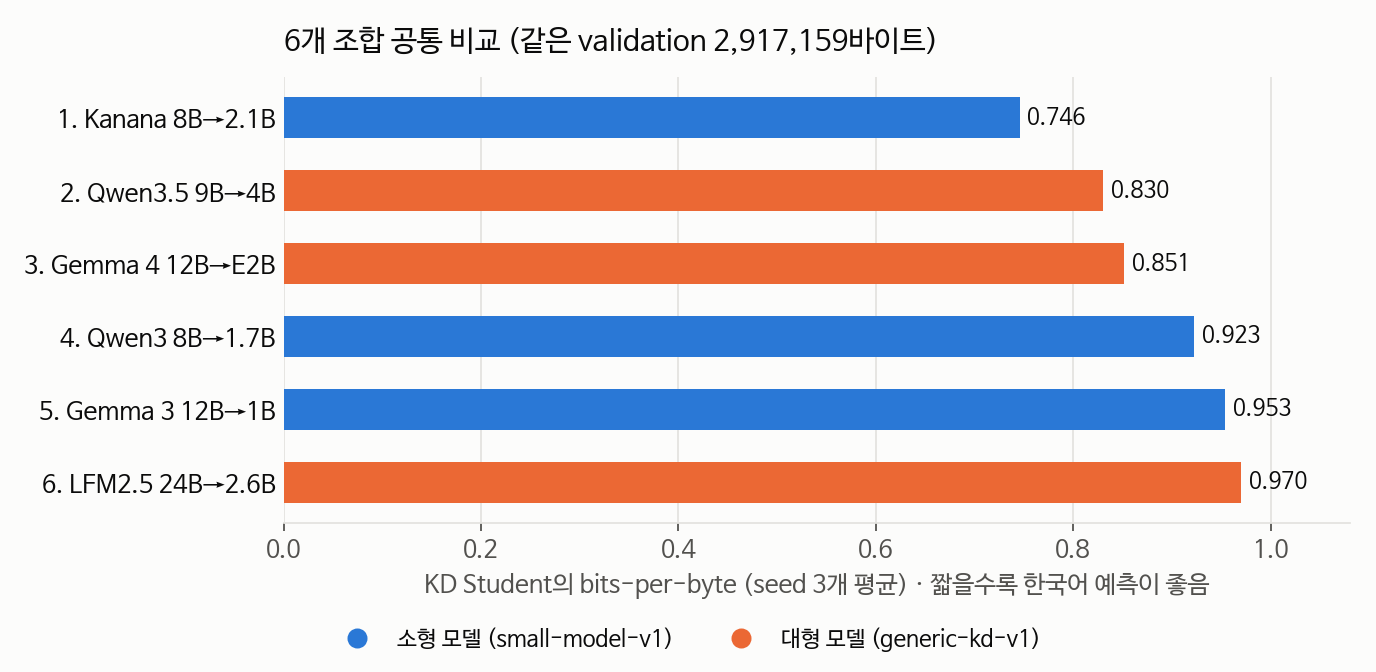
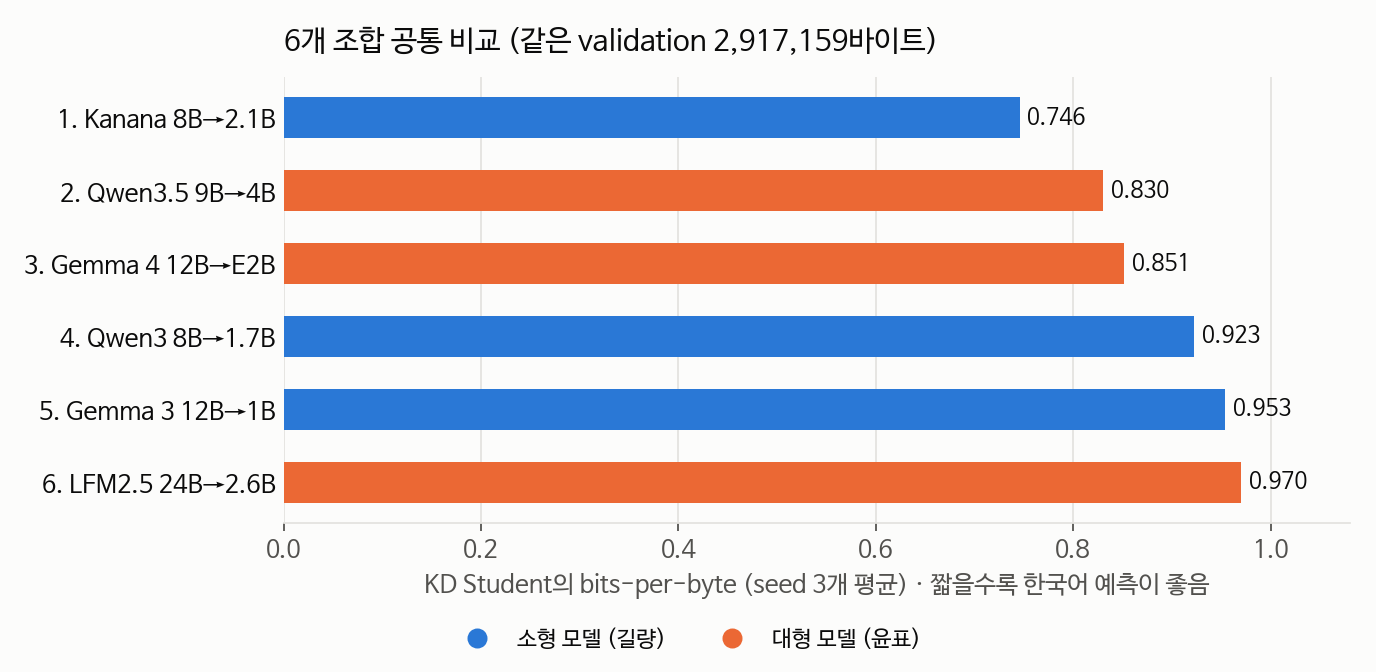
docs: mark who validated each combination in the meeting summary
Small models (길량) and large models (윤표) in the tables and chart legends.
Reinstall the Korean chart font after a workspace restart.

Changed region(s): [[0.25, 0.9375, 0.75, 0.9688]]

diff --git a/scripts/fineweb/make_meeting_figures.py b/scripts/fineweb/make_meeting_figures.py
@@ -56,8 +56,8 @@ def style(ax, xlabel):
 
 
 def legend(fig):
-    handles = [plt.Line2D([], [], marker='o', linestyle='', color=OURS, markersize=8, label='소형 모델 (small-model-v1)'),
-               plt.Line2D([], [], marker='o', linestyle='', color=THEIRS, markersize=8, label='대형 모델 (generic-kd-v1)')]
+    handles = [plt.Line2D([], [], marker='o', linestyle='', color=OURS, markersize=8, label='소형 모델 (길량)'),
+               plt.Line2D([], [], marker='o', linestyle='', color=THEIRS, markersize=8, label='대형 모델 (윤표)')]
     fig.legend(handles=handles, loc='lower center', ncol=2, frameon=False, fontsize=10)
 
 
@@ -125,8 +125,8 @@ def fig_retention():
     handles = [plt.Line2D([], [], marker='o', linestyle='', markerfacecolor=SURFACE, markeredgecolor=MUTED,
                           markeredgewidth=2, markersize=8, label='CE (속이 빈 점)'),
                plt.Line2D([], [], marker='o', linestyle='', color=MUTED, markersize=8, label='KD (채운 점)'),
-               plt.Line2D([], [], marker='s', linestyle='', color=OURS, markersize=8, label='소형 모델'),
-               plt.Line2D([], [], marker='s', linestyle='', color=THEIRS, markersize=8, label='대형 모델')]
+               plt.Line2D([], [], marker='s', linestyle='', color=OURS, markersize=8, label='소형 모델 (길량)'),
+               plt.Line2D([], [], marker='s', linestyle='', color=THEIRS, markersize=8, label='대형 모델 (윤표)')]
     fig.legend(handles=handles, loc='lower center', ncol=4, frameon=False, fontsize=10)
     fig.suptitle('기존 능력 유지: 추가 학습 뒤 한국어 이해 정답률 변화', x=0.01, ha='left', fontsize=13, color=INK)
     fig.tight_layout(rect=(0, 0.07, 1, 0.95))

diff --git a/docs/small-model-kd-v1/MEETING_SUMMARY.md b/docs/small-model-kd-v1/MEETING_SUMMARY.md
@@ -1,6 +1,6 @@
 # 6개 조합 KD 검증 결과
 
-소형 모델 3개 조합과 원우가 진행한 대형 모델 3개 조합을 같은 데이터, 같은 지표로 비교했습니다.
+소형 모델 3개 조합(길량)과 대형 모델 3개 조합(윤표)을 같은 데이터, 같은 지표로 비교했습니다.
 
 ## 요약
 
@@ -12,7 +12,7 @@
 
 ## 평가 조건
 
-| | 소형 모델 | 대형 모델 (원우) |
+| | 소형 모델 (길량) | 대형 모델 (윤표) |
 |---|---|---|
 | 조합 | Qwen3 8B → 1.7B<br>Gemma 3 12B → 1B<br>Kanana 1.5 8B → 2.1B | Qwen3.5 9B → 4B<br>Gemma 4 12B → E2B<br>LFM2.5 24B → 2.6B |
 | GPU | RTX 3090 × 4 | A100 |
@@ -21,7 +21,7 @@
 
 설정은 validation으로만 골랐고 test는 한 번만 채점했습니다.
 
-| 소형 조합 | CE | KD |
+| 소형 조합 (길량) | CE | KD |
 |---|---|---|
 | Qwen3 | LR 1.5e-4 | LR 1.5e-4, alpha 0.7 |
 | Kanana | LR 7.5e-5 | LR 1e-4, alpha 0.7 |
@@ -33,12 +33,12 @@
 
 | 조합 | Teacher | 학습 전 | CE (seed 42 / 43 / 44) | KD (seed 42 / 43 / 44) | KD − CE | KD 우세 seed |
 |---|---|---|---|---|---|---|
-| Kanana | 6.974 | 12.684 | 8.081 / 8.066 / 8.082 | 8.063 / 8.030 / 8.043 | −0.38% | 3/3 |
-| Qwen3 | 7.452 | 15.404 | 10.161 / 10.156 / 10.158 | 10.111 / 10.083 / 10.075 | −0.68% | 3/3 |
-| Gemma 3 | 9.433 | 54.138 | 16.357 / 16.382 / 16.448 | 16.251 / 16.152 / 16.242 | −1.10% | 3/3 |
-| Qwen3.5 | 12.191 | 19.655 | 14.862 / 14.883 / 14.899 | 14.823 / 14.803 / 14.824 | −0.43% | 3/3 |
-| Gemma 4 | 11.235 | 4,809 | 12.262 / 12.279 / 12.297 | 12.365 / 12.353 / 12.263 | +0.39% | 1/3 |
-| LFM2.5 | 19.004 | 54.678 | 17.592 / 17.629 / 17.544 | 17.575 / 17.577 / 17.557 | −0.11% | 2/3 |
+| Kanana (길량) | 6.974 | 12.684 | 8.081 / 8.066 / 8.082 | 8.063 / 8.030 / 8.043 | −0.38% | 3/3 |
+| Qwen3 (길량) | 7.452 | 15.404 | 10.161 / 10.156 / 10.158 | 10.111 / 10.083 / 10.075 | −0.68% | 3/3 |
+| Gemma 3 (길량) | 9.433 | 54.138 | 16.357 / 16.382 / 16.448 | 16.251 / 16.152 / 16.242 | −1.10% | 3/3 |
+| Qwen3.5 (윤표) | 12.191 | 19.655 | 14.862 / 14.883 / 14.899 | 14.823 / 14.803 / 14.824 | −0.43% | 3/3 |
+| Gemma 4 (윤표) | 11.235 | 4,809 | 12.262 / 12.279 / 12.297 | 12.365 / 12.353 / 12.263 | +0.39% | 1/3 |
+| LFM2.5 (윤표) | 19.004 | 54.678 | 17.592 / 17.629 / 17.544 | 17.575 / 17.577 / 17.557 | −0.11% | 2/3 |
 
 값은 test PPL입니다. 토크나이저가 달라 PPL은 같은 조합 안에서만 비교합니다. 성능 향상은 대부분 학습 전 → CE 단계에서 나오고, KD가 더하는 부분은 1% 안팎입니다. Gemma 계열의 학습 전 PPL이 큰 것은 대화용 모델을 BOS 없이 평가했기 때문입니다.
 
@@ -46,16 +46,16 @@
 
 ![공통 비교](../figures/small-model-kd/fig2_common_bpb.png)
 
-6개 토크나이저가 모두 같은 바이트(2,917,159바이트)를 예측하도록 맞춰 채점했습니다. 원우 모델도 같은 서버에서 체크포인트를 복원해 채점했습니다.
+6개 토크나이저가 모두 같은 바이트(2,917,159바이트)를 예측하도록 맞춰 채점했습니다. 윤표 모델도 같은 서버에서 체크포인트를 복원해 채점했습니다.
 
 | 순위 | Student | 학습 전 | CE | KD | KD − CE |
 |---|---|---|---|---|---|
-| 1 | Kanana 2.1B | 0.879 | 0.747 | 0.746 | −0.15% |
-| 2 | Qwen3.5 4B | 0.889 | 0.832 | 0.830 | −0.15% |
-| 3 | Gemma 4 E2B | 2.795 | 0.851 | 0.851 | +0.03% |
-| 4 | Qwen3 1.7B | 1.058 | 0.925 | 0.923 | −0.29% |
-| 5 | Gemma 3 1B | 1.265 | 0.957 | 0.953 | −0.42% |
-| 6 | LFM2.5 2.6B | 1.429 | 0.970 | 0.970 | −0.06% |
+| 1 | Kanana 2.1B (길량) | 0.879 | 0.747 | 0.746 | −0.15% |
+| 2 | Qwen3.5 4B (윤표) | 0.889 | 0.832 | 0.830 | −0.15% |
+| 3 | Gemma 4 E2B (윤표) | 2.795 | 0.851 | 0.851 | +0.03% |
+| 4 | Qwen3 1.7B (길량) | 1.058 | 0.925 | 0.923 | −0.29% |
+| 5 | Gemma 3 1B (길량) | 1.265 | 0.957 | 0.953 | −0.42% |
+| 6 | LFM2.5 2.6B (윤표) | 1.429 | 0.970 | 0.970 | −0.06% |
 
 CE·KD는 seed 3개 평균입니다.
 
@@ -77,17 +77,17 @@ CE·KD는 seed 3개 평균입니다.
 
 | Student | 벤치마크 | 학습 전 | CE | KD | CE − 학습 전 | KD − 학습 전 | KD − CE |
 |---|---|---|---|---|---|---|---|
-| Kanana 2.1B | KoBEST | 69.1 | 67.6 | 67.9 | **−1.5 하락** | **−1.1 하락** | +0.3 |
+| Kanana 2.1B (길량) | KoBEST | 69.1 | 67.6 | 67.9 | **−1.5 하락** | **−1.1 하락** | +0.3 |
 | | KMMLU | 45.9 | 44.8 | 44.4 | −1.2 | −1.5 | −0.4 |
-| Qwen3 1.7B | KoBEST | 52.6 | 52.8 | 52.4 | +0.1 | −0.3 | **−0.4 하락** |
+| Qwen3 1.7B (길량) | KoBEST | 52.6 | 52.8 | 52.4 | +0.1 | −0.3 | **−0.4 하락** |
 | | KMMLU | 39.8 | 38.9 | 38.6 | −0.9 | −1.3 | −0.4 |
-| Gemma 3 1B | KoBEST | 49.2 | 52.1 | 51.8 | **+2.9 향상** | **+2.7 향상** | −0.2 |
+| Gemma 3 1B (길량) | KoBEST | 49.2 | 52.1 | 51.8 | **+2.9 향상** | **+2.7 향상** | −0.2 |
 | | KMMLU | 22.8 | 26.0 | 25.9 | **+3.2 향상** | +3.1 | −0.1 |
-| Qwen3.5 4B | KoBEST | 64.4 | 63.9 | 64.6 | −0.5 | +0.2 | **+0.7 향상** |
+| Qwen3.5 4B (윤표) | KoBEST | 64.4 | 63.9 | 64.6 | −0.5 | +0.2 | **+0.7 향상** |
 | | KMMLU | 57.8 | 57.7 | 57.2 | −0.1 | −0.6 | −0.5 |
-| Gemma 4 E2B | KoBEST | 48.2 | 60.2 | 59.7 | **+12.0 향상** | **+11.5 향상** | **−0.5 하락** |
+| Gemma 4 E2B (윤표) | KoBEST | 48.2 | 60.2 | 59.7 | **+12.0 향상** | **+11.5 향상** | **−0.5 하락** |
 | | KMMLU | 23.6 | 36.8 | 35.2 | **+13.2 향상** | **+11.6 향상** | **−1.6 하락** |
-| LFM2.5 2.6B | KoBEST | 52.3 | 54.9 | 54.8 | **+2.6 향상** | **+2.5 향상** | 0.0 |
+| LFM2.5 2.6B (윤표) | KoBEST | 52.3 | 54.9 | 54.8 | **+2.6 향상** | **+2.5 향상** | 0.0 |
 | | KMMLU | 20.2 | 27.1 | 26.3 | **+6.9 향상** | **+6.1 향상** | −0.8 |
 
 정답률(%)과 그 차이(%p)입니다. CE·KD는 seed 3개 평균이고, 굵게 표시한 칸은 문항 bootstrap 95% 구간이 0을 포함하지 않는 경우입니다. 나머지는 변화가 불명확합니다. KMMLU는 4지선다라 우연히 맞힐 확률이 25%입니다.
@@ -101,12 +101,12 @@ CE·KD는 seed 3개 평균입니다.
 
 | Student | 한국어 예측 순위 | 라이선스 |
 |---|---|---|
-| Kanana 2.1B | 1 | Apache 2.0 |
-| Qwen3.5 4B | 2 | Apache 2.0 |
-| Gemma 4 E2B | 3 | Apache 2.0 |
-| Qwen3 1.7B | 4 | Apache 2.0 |
-| Gemma 3 1B | 5 | Gemma 약관 (의료·복지 분야 자동 결정 금지 조항) |
-| LFM2.5 2.6B | 6 | LFM Open License (연매출 1천만 달러 이상 상업 이용 제한) |
+| Kanana 2.1B (길량) | 1 | Apache 2.0 |
+| Qwen3.5 4B (윤표) | 2 | Apache 2.0 |
+| Gemma 4 E2B (윤표) | 3 | Apache 2.0 |
+| Qwen3 1.7B (길량) | 4 | Apache 2.0 |
+| Gemma 3 1B (길량) | 5 | Gemma 약관 (의료·복지 분야 자동 결정 금지 조항) |
+| LFM2.5 2.6B (윤표) | 6 | LFM Open License (연매출 1천만 달러 이상 상업 이용 제한) |
 
 - 현재로서는 Kanana 2.1B KD 모델이 가장 유력합니다. 한국어 예측과 KoBEST가 가장 좋고 크기와 라이선스 조건도 유리합니다.
 - 다만 보건·사회복지·심리 지식 문항(KMMLU)은 Qwen3.5 4B가 13%p 가까이 높습니다. 실버케어에서 지식 정확도가 중요하다면 Qwen3.5도 함께 검토할 만합니다.
@@ -122,7 +122,7 @@ CE·KD는 seed 3개 평균입니다.
 ## 다음 단계
 
 1. Kanana, Qwen3.5의 4비트 양자화 후 메모리·속도 측정
-2. 원우의 QA·안전성 평가에 상위 후보 포함
+2. 윤표의 QA·안전성 평가에 상위 후보 포함
 3. 최종 발표 자료 작성
 
 결과 파일: [test](../../results/small-model-v1/results.csv) · [6개 조합 비교](../../results/small-model-v1/common/pairwise.csv) · [기존 능력 유지](../../results/small-model-v1/retention/retention.csv) · [변경 사항](DEVIATIONS.md)
